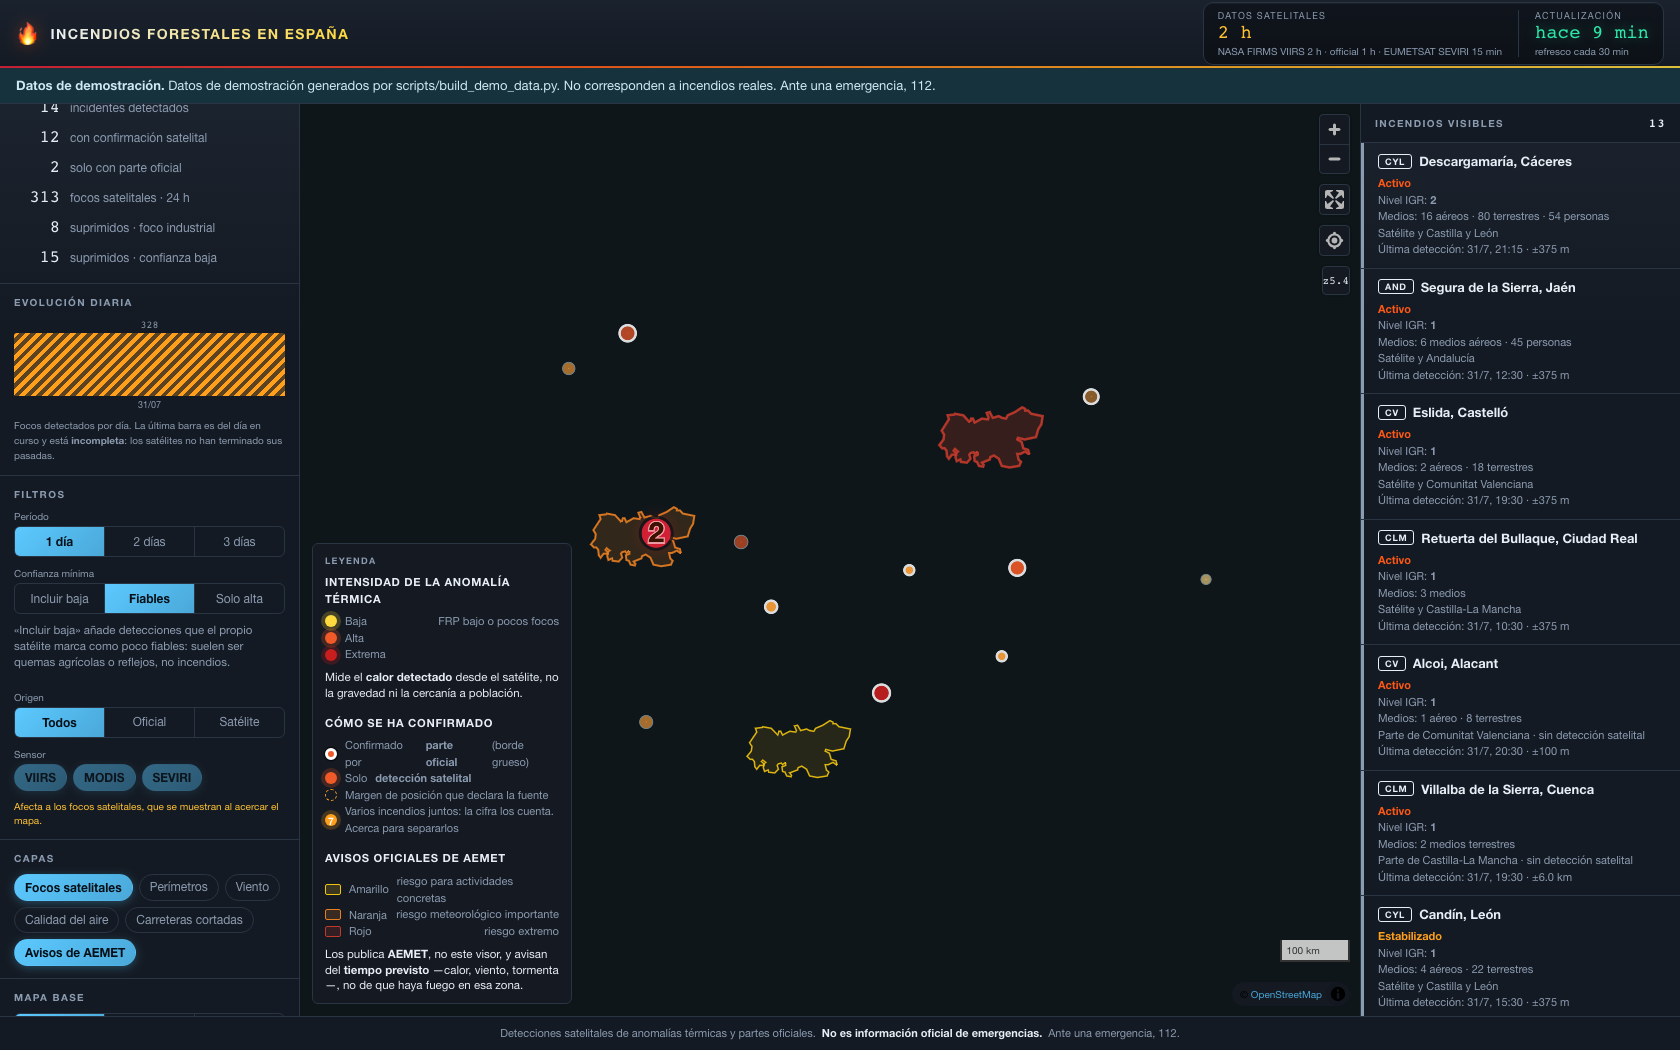
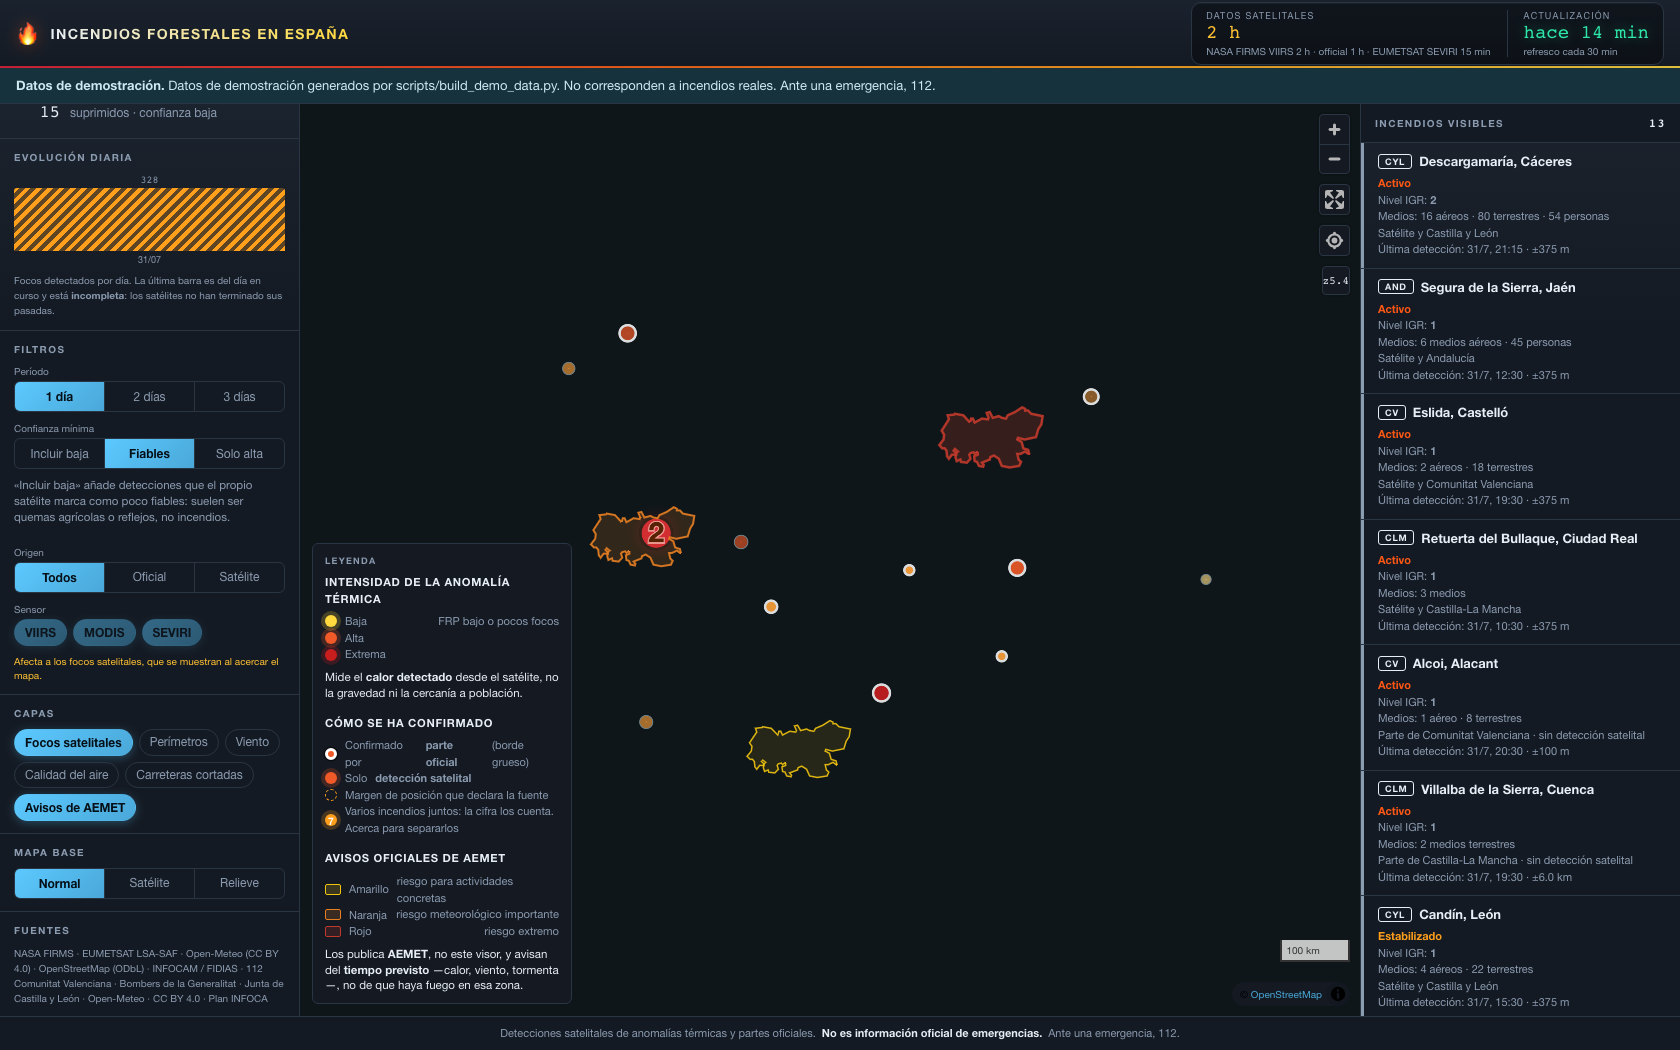
Una fuente que deja de publicar ya no se anuncia como sana

Changed region(s): [[0.0, 0.0914, 0.1857, 0.9752], [0.7119, 0.0, 0.9595, 0.061], [0.3714, 0.4876, 0.4024, 0.5181]]

diff --git a/docs/ERRORES-Y-SOLUCIONES.md b/docs/ERRORES-Y-SOLUCIONES.md
@@ -36,7 +36,7 @@ incidentes llevan estado declarado, nivel IGR y medios.
 
 ## A · Lógica de fusión y del pipeline
 
-### A7 · Una fuente muerta se publica como sana · **ABIERTO**
+### A7 · Una fuente muerta se publicaba como sana · **RESUELTO**
 
 El 31-07-2026 FIRMS dejó de servir VIIRS: **cero filas en 24 h** para los tres
 satélites, mientras MODIS seguía dando 11 focos en el mismo bbox. VIIRS detecta a
@@ -64,8 +64,28 @@ el número rojo de «datos satelitales», que un usuario no sabe interpretar —
 hecho dudó quien construyó la aplicación. El panel de fuentes, que existe
 precisamente para decir qué está roto, decía que todo iba bien.
 
-**Solución propuesta**, bloque 0 del plan: `data_age_seconds` por fuente, y
-`status` en `stale` cuando el dato supera la cadencia esperada del sensor.
+**Solución.** Dos edades separadas y publicadas: `age_seconds` (cuándo
+conseguimos descargar) y `data_age_seconds` (cuándo se tomó el dato más
+reciente). `status` pasa a `stale` cuando el dato supera la cadencia declarada de
+esa fuente — 12 h para los polares, 2 h para SEVIRI — aunque la descarga vaya
+bien. `stale_reason` dice cuál de los dos ha fallado, porque solo uno se arregla
+desde aquí.
+
+La cadencia es opcional y solo se declara donde se conoce: que la Junta no
+publique un incendio nuevo en 20 h es una buena noticia, no una avería.
+
+### E5 · Tres pruebas E2E distintas fallaban en cada ejecución
+
+Siempre de la capa de focos, y las tres pasaban aisladas. La capa se monta de
+forma diferida y las pruebas lo suplían con `waitForTimeout(1500)`: suficiente en
+una máquina descargada, insuficiente con la suite entera corriendo.
+
+**Un tiempo fijo no es una espera, es una apuesta.**
+
+**Solución.** `abrir()` espera a que la capa exista **y tenga filtro**, y
+`capaConFeatures` espera a que MapLibre haya pintado antes de consultar lo
+renderizado. La suite pasó de fallar 3 de 79 por ejecución a 79/79, y de 4,5 a
+3,2 minutos: esperar a la condición es además más rápido que esperar de más.
 
 ### A0 · «Activo» se afirmaba sin que nadie lo hubiera declarado
 
